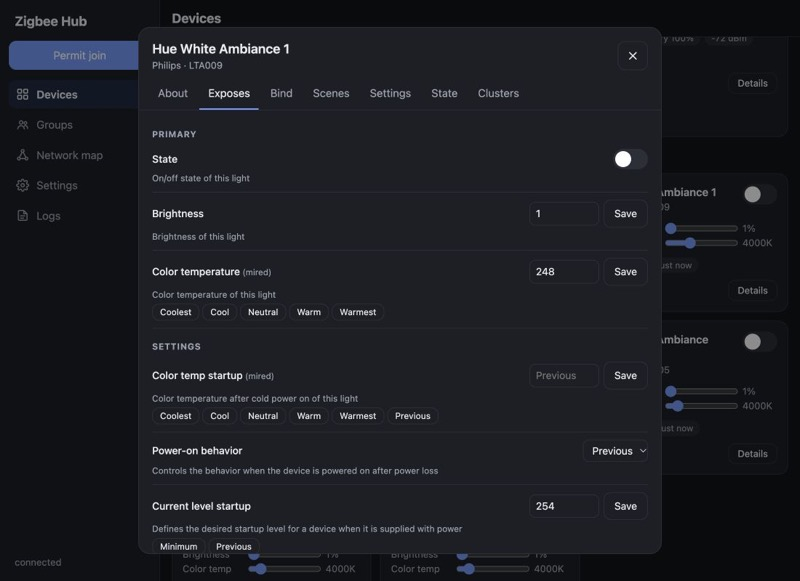
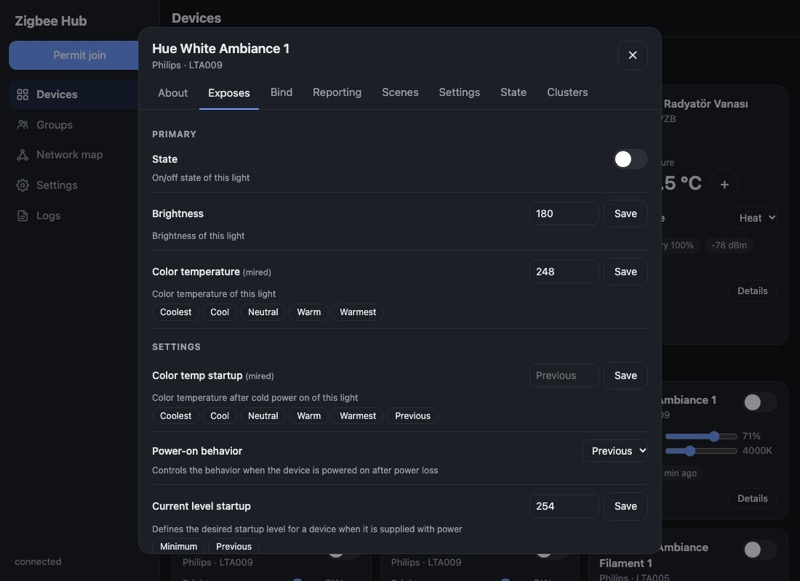
Refresh the device details screenshot

diff --git a/README.md b/README.md
@@ -51,7 +51,7 @@ Assistant or Zigbee2MQTT needed.
 |---|---|
 | ![Devices: thermostats and radiator valves](docs/screenshots/devices.jpg) | ![Lights with brightness and color temperature](docs/screenshots/lights.jpg) |
 | **Device details** | **Groups** |
-| ![A light's Exposes tab with the Scenes tab available](docs/screenshots/device-exposes.jpg) | ![A group with its members](docs/screenshots/groups.jpg) |
+| ![A light's Exposes tab with Reporting and Scenes visible](docs/screenshots/device-exposes.jpg) | ![A group with its members](docs/screenshots/groups.jpg) |
 
 ## zhub and Zigbee2MQTT
 
